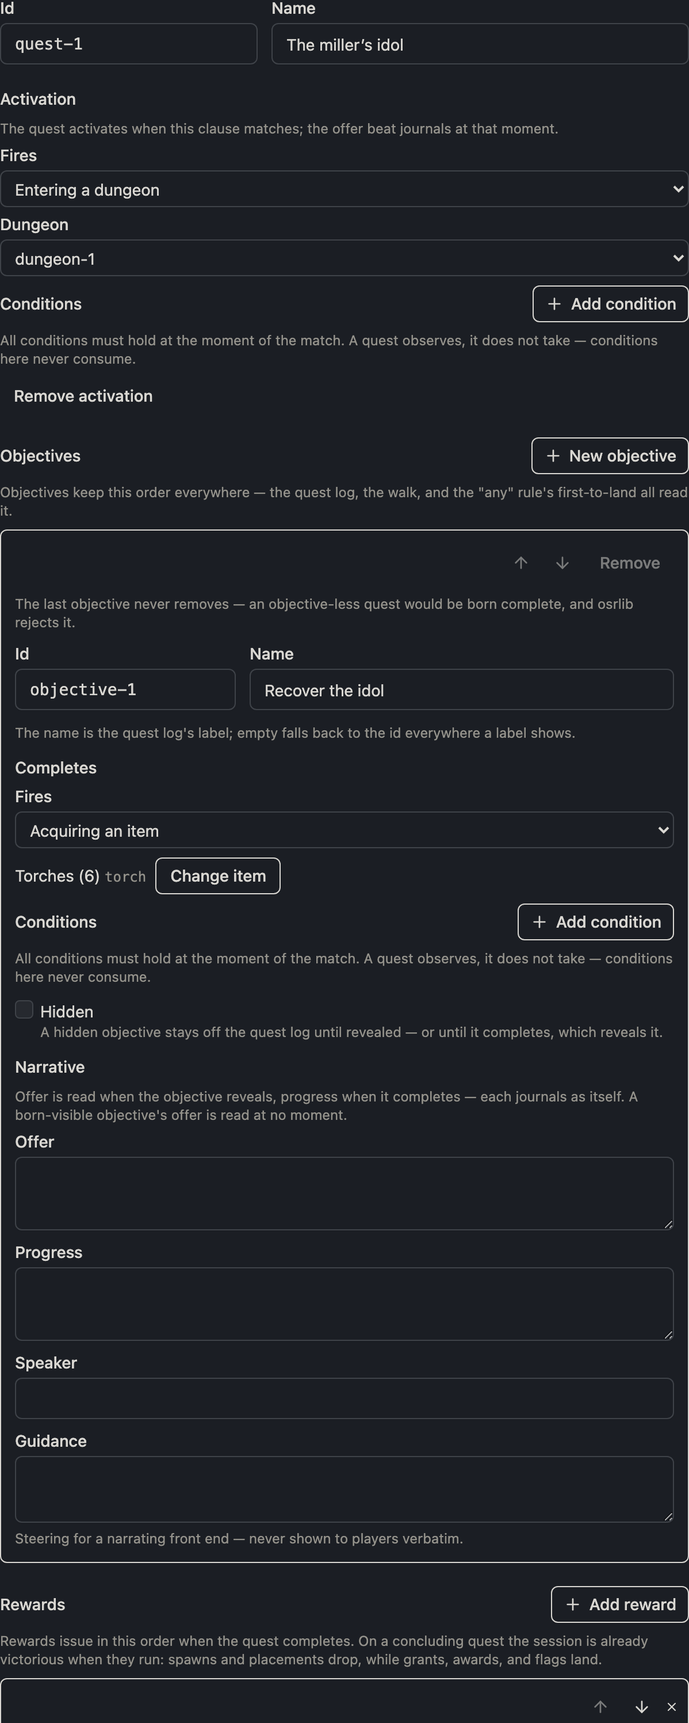
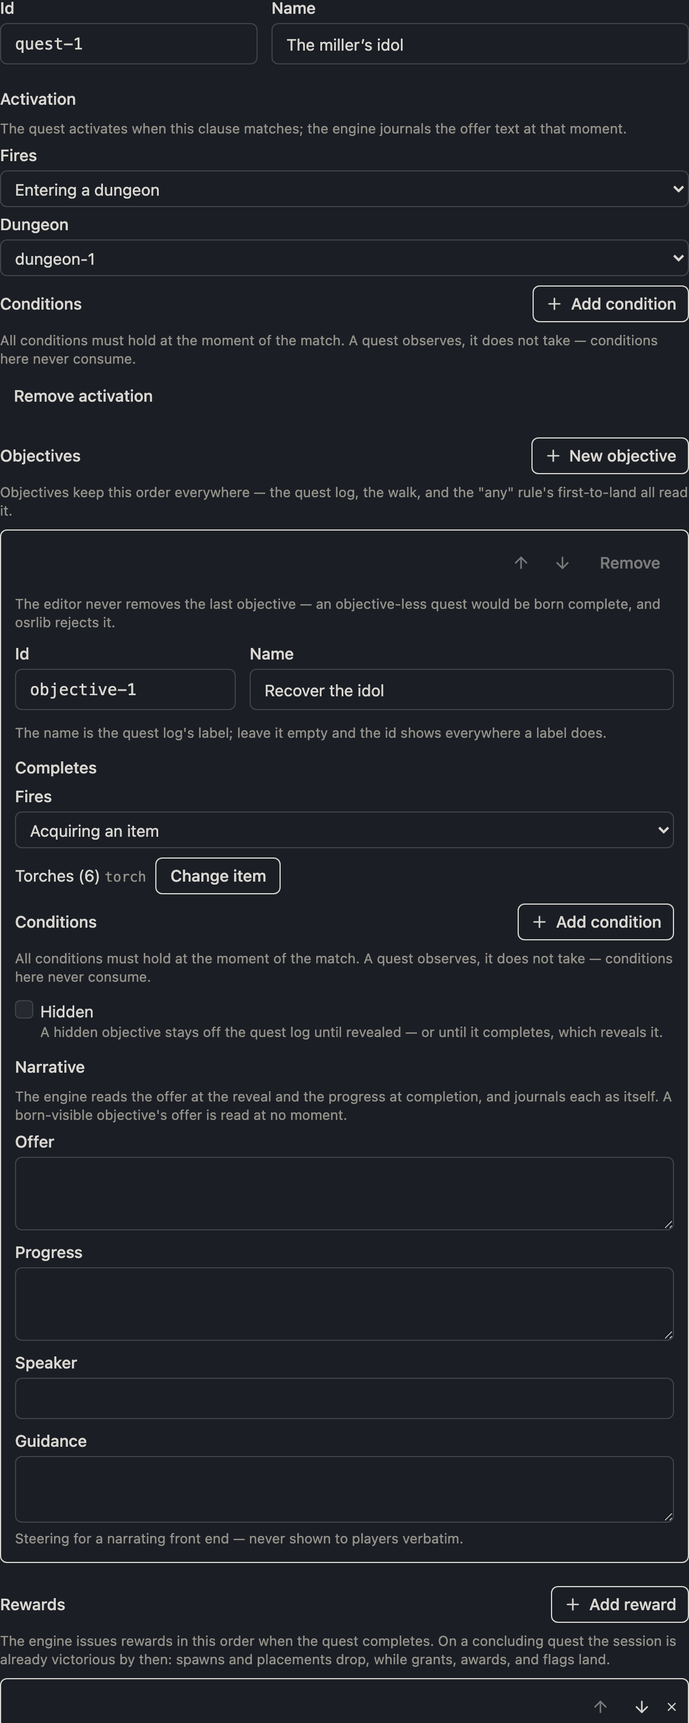
apply the no-false-agency register to the phase 17 surfaces
The PR #65 register pass, applied to this phase's UI copy and docs: beats
no longer journal themselves or ride their lifecycle events (the engine
journals each beat as itself, on its own event), blocks and sections hold
rather than carry, the engine issues rewards and executes consequences
rather than the commands issuing themselves, a gate names its item rather
than requiring it, a quest must have a name rather than needing one, the
editor — not the objective — refuses to remove the last one, saves hold
their orphaned state rather than tracking or marking it, and the guide's
'authored order decides' hands the deciding back to the rule's own
first-in-order fact. Same fixes in the triggers guide's phase 16
stragglers (the engine holds the fired line, speaker and guidance no
longer ride along, the section holds two lists), README's OGL line
(includes, the PR #65 licensing fix mirrored), and the CHANGELOG bullets.
The reworded help text shows in three committed shots, so quest-detail,
quests-triggers, and trigger-detail re-captured.

Claude-Session: https://claude.ai/code/session_0166KkiY7Sv9PWZSoJHwKHsB

diff --git a/frontend/src/components/quests-section.tsx b/frontend/src/components/quests-section.tsx
@@ -196,8 +196,8 @@ export function QuestsSection({
             </Button>
           </div>
           <p className="text-muted-foreground text-xs">
-            Quests seed and advance in this order — the interpreter walks them after the triggers,
-            and the player's quest log lists them as authored.
+            The interpreter seeds and walks quests in this order, after the triggers, and the
+            player's quest log lists them as authored.
           </p>
         </div>
         {quests.length === 0 ? (
@@ -293,7 +293,7 @@ function ForgeQuestsBody() {
     <section aria-label="Quests" className="flex max-w-xl flex-col gap-3">
       <h2 className="font-serif text-xl font-semibold">Quests</h2>
       <p className="text-sm">
-        A forge-assembled adventure carries no triggers or quests: the overrides vocabulary has no
+        A forge-assembled adventure holds no triggers or quests: the overrides vocabulary has no
         authored-layer surface, so there is nothing here to review and nothing the editor could
         write back to <span className="font-mono">overrides.yaml</span>. The gap is osr-forge's
         recorded decision (
@@ -411,7 +411,7 @@ function TriggerRow({
       {confirming && (
         <p className="text-muted-foreground px-2 pb-2 text-xs">
           Nothing in the document references a trigger, so removal dangles nothing. A save that
-          already marked it fired keeps the orphaned mark.
+          already holds its fired mark keeps it, orphaned.
         </p>
       )}
     </li>
@@ -508,7 +508,7 @@ function QuestRow({
       {confirming && (
         <p className="text-muted-foreground px-2 pb-2 text-xs">
           Nothing in the document references a quest, so removal dangles nothing. A save that
-          already tracks it keeps the orphaned lifecycle state.
+          already holds its lifecycle state keeps it, orphaned.
         </p>
       )}
     </li>
@@ -680,9 +680,9 @@ function CreateQuestBody({
       <DialogHeader>
         <DialogTitle>New quest</DialogTitle>
         <DialogDescription>
-          A quest needs a name and one objective to exist; the objective completes on the pattern
-          you pick here. Everything else — activation, more objectives, rewards — is detail-editor
-          work.
+          A quest must have a name and one objective to exist; the objective completes on the
+          pattern you pick here. Everything else — activation, more objectives, rewards — is
+          detail-editor work.
         </DialogDescription>
       </DialogHeader>
       <div className="flex flex-col gap-3">
@@ -828,7 +828,7 @@ function TriggerDetail({
         idPrefix="trigger-consequence"
         noun="consequence"
         title="Consequences"
-        help="Consequences execute in this order when the trigger fires. Empty is a normal shape — a trigger whose whole job is its journal beat."
+        help="The engine executes consequences in this order when the trigger fires. Empty is a normal shape — a trigger whose whole job is its journal beat."
         onUpdate={(build) =>
           update((committed) => {
             const consequences = build(committed.consequences)
@@ -937,7 +937,7 @@ function QuestDetail({
         idPrefix="quest-reward"
         noun="reward"
         title="Rewards"
-        help="Rewards issue in this order when the quest completes. On a concluding quest the session is already victorious when they run: spawns and placements drop, while grants, awards, and flags land."
+        help="The engine issues rewards in this order when the quest completes. On a concluding quest the session is already victorious by then: spawns and placements drop, while grants, awards, and flags land."
         onUpdate={(build) =>
           update((committed) => {
             const rewards = build(committed.rewards)
@@ -967,8 +967,8 @@ function QuestDetail({
           </select>
         </div>
         <p className="text-muted-foreground text-xs">
-          Under "any", the quest completes on the first authored objective whose clause lands in the
-          walk — authored order decides which.
+          Under "any", the first authored objective whose clause lands in the walk completes the
+          quest.
         </p>
       </div>
 
@@ -987,9 +987,9 @@ function QuestDetail({
         <span>
           Concludes the adventure
           <span className="text-muted-foreground block text-xs">
-            Completing this quest ends the adventure in victory, and the completion beat journals
-            with it. Author one concluding quest — osrlib caps nothing, and a second one completing
-            merely journals.
+            Completing this quest ends the adventure in victory, and the engine journals the
+            completion text with it. Author one concluding quest — osrlib caps nothing, and a second
+            one completing merely adds a journal line.
           </span>
         </span>
       </label>
@@ -997,8 +997,8 @@ function QuestDetail({
       <div className="flex flex-col gap-2">
         <h3 className="text-sm font-medium">Narrative</h3>
         <p className="text-muted-foreground text-xs">
-          Offer journals at activation, completion at quest completion — each beat journals as
-          itself, riding its lifecycle event, so no separate journal voice exists.
+          The engine journals the offer at activation and the completion at quest completion — each
+          beat as itself, on its own lifecycle event — so no separate journal voice exists.
         </p>
         <NarrativeBlockEditor
           block={quest.narrative ?? null}
@@ -1042,12 +1042,14 @@ function ActivationCard({
       {activation === null && !drafting ? (
         <p className="text-muted-foreground text-xs">
           Standing charge — the quest is active from the session's first moment. With no activation
-          moment the offer beat never journals, but the quest still shows in the player's quest log.
+          moment the engine never journals the offer text, but the quest still shows in the player's
+          quest log.
         </p>
       ) : (
         <>
           <p className="text-muted-foreground text-xs">
-            The quest activates when this clause matches; the offer beat journals at that moment.
+            The quest activates when this clause matches; the engine journals the offer text at that
+            moment.
           </p>
           <ClauseBuilder
             clause={activation}
@@ -1319,8 +1321,8 @@ function ObjectiveCard({
       </div>
       {count <= 1 && (
         <p className="text-muted-foreground text-xs">
-          The last objective never removes — an objective-less quest would be born complete, and
-          osrlib rejects it.
+          The editor never removes the last objective — an objective-less quest would be born
+          complete, and osrlib rejects it.
         </p>
       )}
       <div className="flex items-end gap-3">
@@ -1335,7 +1337,7 @@ function ObjectiveCard({
       </div>
       {idError && <p className="text-destructive text-xs">{idError}</p>}
       <p className="text-muted-foreground text-xs">
-        The name is the quest log's label; empty falls back to the id everywhere a label shows.
+        The name is the quest log's label; leave it empty and the id shows everywhere a label does.
       </p>
       <div className="flex flex-col gap-2">
         <h4 className="text-sm font-medium">Completes</h4>
@@ -1387,8 +1389,8 @@ function ObjectiveCard({
           </div>
           {objective.reveal_when == null && !revealDrafting ? (
             <p className="text-muted-foreground text-xs">
-              No reveal clause — the normal shape: the objective surfaces by completing. The offer
-              beat is read only at reveal.
+              No reveal clause — the normal shape: the objective surfaces by completing. The engine
+              reads the offer beat only at the reveal.
             </p>
           ) : (
             <>
@@ -1424,8 +1426,8 @@ function ObjectiveCard({
       <div className="flex flex-col gap-2">
         <h4 className="text-sm font-medium">Narrative</h4>
         <p className="text-muted-foreground text-xs">
-          Offer is read when the objective reveals, progress when it completes — each journals as
-          itself. A born-visible objective's offer is read at no moment.
+          The engine reads the offer at the reveal and the progress at completion, and journals each
+          as itself. A born-visible objective's offer is read at no moment.
         </p>
         <NarrativeBlockEditor
           block={objective.narrative ?? null}

diff --git a/frontend/src/components/quests-section.test.tsx b/frontend/src/components/quests-section.test.tsx
@@ -301,7 +301,7 @@ test('the quest list renders document order — numbered, never sorted, with the
   expect(rows[1]).toHaveTextContent('standing charge')
   expect(rows[1]).toHaveTextContent('1 objective · 1 reward')
   expect(
-    screen.getByText('Quests seed and advance in this order', { exact: false }),
+    screen.getByText('The interpreter seeds and walks quests in this order', { exact: false }),
   ).toBeInTheDocument()
 })
 
@@ -372,7 +372,7 @@ test('quest remove is a two-step confirm posting remove_quest', async () => {
   const row = screen.getByTestId('quest-row-qa')
   fireEvent.click(within(row).getByRole('button', { name: 'Remove' }))
   expect(row).toHaveTextContent('removal dangles nothing')
-  expect(row).toHaveTextContent('orphaned lifecycle state')
+  expect(row).toHaveTextContent('holds its lifecycle state keeps it, orphaned')
   fireEvent.click(within(row).getByRole('button', { name: 'Confirm remove' }))
   await waitFor(() => expect(postOps).toHaveBeenCalledTimes(1))
   const [, , ops] = postOps.mock.calls[0]
@@ -392,7 +392,7 @@ test('the standing charge states itself and Add activation opens a clause builde
   renderSection(projectWithQuests([quest('qa')]))
   const activation = screen.getByLabelText('Activation')
   expect(activation).toHaveTextContent('Standing charge')
-  expect(activation).toHaveTextContent('the offer beat never journals')
+  expect(activation).toHaveTextContent('the engine never journals the offer text')
   fireEvent.click(within(activation).getByRole('button', { name: 'Add activation' }))
   fireEvent.change(within(activation).getByLabelText('Fires'), {
     target: { value: 'town_entered' },
@@ -463,7 +463,7 @@ test('a hidden objective without a reveal clause names the surfaces-by-completin
   expect(within(reveal).getByRole('button', { name: 'Add reveal clause' })).toBeInTheDocument()
 })
 
-test('the last objective never removes, with the reason named', () => {
+test('the editor never removes the last objective, with the reason named', () => {
   renderSection(projectWithQuests([quest('qa')]))
   expect(screen.getByRole('button', { name: 'Remove objective o-1' })).toBeDisabled()
   expect(screen.getByText(/objective-less quest would be born complete/)).toBeInTheDocument()

diff --git a/frontend/src/components/narrative-block-editor.tsx b/frontend/src/components/narrative-block-editor.tsx
@@ -73,8 +73,8 @@ export function NarrativeBlockEditor({
       {unreadBeats.map((beat) => (
         <div key={beat} className="flex flex-col items-start gap-1.5" aria-label="Unread beat">
           <p className="text-xs text-amber-700 dark:text-amber-400">
-            This block carries <span className="font-mono">{beat}</span> text, which this carrier
-            never reads: <span className="font-serif">“{current[beat]}”</span>
+            This block holds <span className="font-mono">{beat}</span> text, which the engine never
+            reads for this carrier: <span className="font-serif">“{current[beat]}”</span>
           </p>
           <Button variant="outline" size="sm" onClick={() => commitField(beat, '')}>
             Clear the {BEAT_LABELS[beat].toLowerCase()} text

diff --git a/tests/e2e/triggers.spec.ts b/tests/e2e/triggers.spec.ts
@@ -215,7 +215,7 @@ test('the forge posture: the Quests explanation body, and a map add-trigger bloc
   // — no list, since a forge-assembled document can never carry triggers; the
   // gap is forge's recorded decision, with detach in place.
   await page.getByRole('button', { name: 'Quests', exact: true }).click()
-  await expect(page.getByText(/carries no triggers or quests/)).toBeVisible()
+  await expect(page.getByText(/holds no triggers or quests/)).toBeVisible()
   await expect(page.getByRole('link', { name: 'osr-forge#39' })).toBeVisible()
   await expect(page.getByRole('button', { name: 'Detach to a native project…' })).toBeVisible()
   await expect(page.getByRole('button', { name: 'New trigger' })).toHaveCount(0)

diff --git a/docs/guides/quests.md b/docs/guides/quests.md
@@ -1,65 +1,65 @@
 # Quests
 
-A quest gives your module a goal the engine can track: recover the idol, and the adventure is won. The quest list lives in the **Quests** section below the [triggers](triggers.md), and the two share a vocabulary on purpose — every clause a quest carries is built from the same patterns and conditions a trigger uses, and every reward is one of the same nine referee commands.
+A quest is the goal the engine tracks for your module: recover the idol, and the adventure is won. The quest list lives in the **Quests** section below the [triggers](triggers.md), and the two share a vocabulary on purpose — every clause in a quest is built from the same patterns and conditions a trigger uses, and every reward is one of the same nine referee commands.
 
-A quest has a required **name** (the words the player's quest log shows), an optional **activation** clause, one or more **objectives**, optional **rewards**, a completion rule of **all** or **any**, and the one field that can end the adventure: **concludes the adventure**.
+A quest has a required **name** (the words the player's quest log shows), an optional **activation** clause, one or more **objectives**, optional **rewards**, a completion rule of **all** or **any**, and the one field behind victory: **concludes the adventure**.
 
 ![The quest detail editor: the name, the activation clause, and the first objective with its completion clause, hidden toggle, and beats](../assets/screenshots/quest-detail-light.png#only-light)
 ![The quest detail editor: the name, the activation clause, and the first objective with its completion clause, hidden toggle, and beats](../assets/screenshots/quest-detail-dark.png#only-dark)
 
 ## Creating a quest
 
-**New quest** collects exactly what a quest needs to exist: an id, the name, and the first objective's completion pattern. A quest without a name or without an objective is not a valid document shape — under the *all* rule an objective-less quest would be born complete — so the dialog won't create one. Everything else is detail-editor work; the first objective is minted `objective-1` and renames there.
+**New quest** collects exactly what a quest must have to exist: an id, the name, and the first objective's completion pattern. A quest without a name or without an objective is not a valid document shape — under the *all* rule an objective-less quest would be born complete — so the dialog won't create one. Everything else is detail-editor work; the first objective is minted `objective-1`, and you rename it there.
 
 ## Activation, or the standing charge
 
-A quest with no activation clause is a **standing charge**: active from the session's first moment, on the party's list before they take a step. Two honest consequences follow from there being no activation moment: the quest's offer text never journals (there is nothing to journal it at), though the quest still shows in the player's quest log from the start.
+A quest with no activation clause is a **standing charge**: active from the session's first moment, on the party's list before they take a step. Two honest consequences follow from there being no activation moment: the engine never journals the quest's offer text (there is no moment to journal it at), though the quest still shows in the player's quest log from the start.
 
-**Add activation** turns activation into an event the party crosses — entering the dungeon, taking a specific item, any of the seven patterns — optionally narrowed by conditions. When an activation clause matches, the quest activates and its offer text journals at that moment. Removing the clause returns the quest to a standing charge.
+**Add activation** turns activation into an event the party crosses — entering the dungeon, taking a specific item, any of the seven patterns — optionally narrowed by conditions. When an activation clause matches, the quest activates and the engine journals its offer text at that moment. Removing the clause returns the quest to a standing charge.
 
 ## Objectives
 
-Each objective is a thing the party can accomplish, with a completion clause built from the same pattern-plus-conditions shape. Order matters everywhere it shows: objectives keep their authored order in the quest log, in the engine's walk, and — under the *any* rule — in deciding which objective's landing completes the quest.
+Each objective is a thing the party can accomplish, with a completion clause built from the same pattern-plus-conditions shape. Order matters everywhere it shows: objectives keep their authored order in the quest log, in the engine's walk, and — under the *any* rule — in which objective's landing completes the quest.
 
-- The **name** is the quest log's label. It is optional; an unnamed objective falls back to its id everywhere a label shows.
+- The **name** is the quest log's label. It is optional; an unnamed objective shows as its id everywhere a label shows.
 - Objective **ids** are unique within their quest (two different quests may reuse an id), and the editor refuses a duplicate as you type it.
-- A quest keeps at least one objective — the last one never removes.
+- A quest keeps at least one objective — the editor never removes the last one.
 
 ### Hidden objectives and reveals
 
 A **hidden** objective stays off the player's list until it is revealed. There are two ways out of hiding:
 
-- A **reveal clause** — the same clause shape again — surfaces the objective when it matches, and the objective's *offer* text journals at that moment.
+- When a **reveal clause** — the same clause shape again — matches, the engine surfaces the objective and journals its *offer* text at that moment.
 - Completing a hidden objective reveals it. A hidden objective with no reveal clause is a perfectly normal shape: it surfaces by being done.
 
 A reveal clause only makes sense on a hidden objective, so unticking **Hidden** clears the reveal clause in the same gesture.
 
-Because a reveal is the only moment that reads an objective's offer text, a born-visible objective's offer is read at no moment — author the *progress* beat for objectives that start on the list.
+Because the engine reads an objective's offer text only at its reveal, a born-visible objective's offer is read at no moment — author the *progress* beat for objectives that start on the list.
 
 ## Rewards
 
-Rewards are the same nine commands a trigger's consequences use, under the same rules: recipients are the whole party or the first living character (never a typed character id), and they issue in authored order when the quest completes.
+Rewards are the same nine commands a trigger's consequences use, under the same rules: recipients are the whole party or the first living character (never a typed character id), and the engine issues them in authored order when the quest completes.
 
-One ordering fact is worth knowing for a concluding quest: the victory transition happens *before* the rewards issue. Grants, awards, and flag writes still land — the epilogue paying out — but spawns and placements are dropped, because the session is already over and there is nothing left to fight or walk.
+One ordering fact is worth knowing for a concluding quest: the victory transition happens *before* the engine issues the rewards. Grants, awards, and flag writes still land — the epilogue paying out — but spawns and placements are dropped, because the session is already over and there is nothing left to fight or walk.
 
 ## All, any, and concluding the adventure
 
-**Completion** is *all* (every objective) or *any* (the first to land — authored order decides which when one moment completes several).
+**Completion** is *all* (every objective) or *any* (the first to land — when one moment would complete several, the first in authored order counts).
 
-**Concludes the adventure** marks the quest whose completion ends the adventure in victory: the engine switches to the victory state, and the quest's *completion* text journals with it. Author one concluding quest per module — the engine caps nothing, but once the first one completes the session is over, and a second concluding quest can only ever add a journal line.
+**Concludes the adventure** marks the quest whose completion ends the adventure in victory: the engine switches to the victory state and journals the quest's *completion* text with it. Author one concluding quest per module — the engine caps nothing, but once the first one completes the session is over, and a second concluding quest can only ever add a journal line.
 
-## The two beats, journaling as themselves
+## The two beats, journaled as themselves
 
-A quest's narrative block carries **offer** (shown and journaled at activation) and **completion** (shown and journaled at quest completion). An objective's block carries **offer** (at reveal) and **progress** (at its completion). Each beat rides its own lifecycle event and is written to the journal as itself — there is no separate journal voice to author, which is why the editor offers none. A foreign document's block carrying text in a beat the quest layer never reads (a `journal` or `fired` line) is flagged by name with a one-click clear.
+A quest's narrative block holds **offer** (shown and journaled at activation) and **completion** (shown and journaled at quest completion). An objective's block holds **offer** (at reveal) and **progress** (at its completion). The engine shows and journals each beat on its own lifecycle event, as itself — there is no separate journal voice to author, which is why the editor offers none. When a foreign document's block holds text in a beat the engine never reads for a quest (a `journal` or `fired` line), the editor flags it by name with a one-click clear.
 
-Speaker and guidance ride along as on every narrative block.
+Speaker and guidance are on every narrative block, as always.
 
 ## The advisory lints
 
 Two advisory checks watch the quest layer, joining the [three on the trigger layer](triggers.md#the-advisory-lints). Warnings by construction — they never block publishing:
 
-- **Unpriced treasure rewards** (`quest_reward_unpriced`) — the quest pays treasure the XP machinery will never price, with no XP award beside it. Granted items always count zero toward XP under the engine's valuation rule; granted coins on a *concluding* quest land after victory, where the return-to-town award never runs. Either way the players get the loot but never the experience — add an **Award XP** reward if the payment is meant to count. (Granted coins on a non-concluding quest price themselves at the next return to town and are not flagged.)
-- **A key nothing places** (`key_not_placed`) — a door or stair gate requires a bundled item that no treasure cache holds and no trigger or non-concluding quest reward grants. The party can buy shipped items in town, but a bundled item exists only where you put it — and a concluding quest's grant doesn't count, because it lands after the adventure is already over. The finding sits on the gate that can't be satisfied.
+- **Unpriced treasure rewards** (`quest_reward_unpriced`) — the quest's rewards grant treasure the XP machinery will never price, with no XP award beside them. Granted items always count zero toward XP under the engine's valuation rule; granted coins on a *concluding* quest land after victory, where the return-to-town award never runs. Either way the players get the loot but never the experience — add an **Award XP** reward if the payment is meant to count. (The game prices granted coins on a non-concluding quest at the next return to town, so those are not flagged.)
+- **A key nothing places** (`key_not_placed`) — a door or stair gate names a bundled item that no treasure cache holds and no trigger or non-concluding quest reward grants. The party can buy shipped items in town, but a bundled item exists only where you put it — and a concluding quest's grant doesn't count, because it lands after the adventure is already over. The finding sits on the gate that can't be satisfied.
 
 ## What lives in saves
 
@@ -67,4 +67,4 @@ A quest's lifecycle state — activated, revealed, completed — lives in the pl
 
 ## In converted projects
 
-The [forge-backed](forge-backed-review.md) posture is the same as for triggers: no forge-assembled document can carry quests, the gap is [osr-forge#39](https://github.com/mmacy/osr-forge/issues/39), and the Quests section offers **Detach to a native project** in place.
+The [forge-backed](forge-backed-review.md) posture is the same as for triggers: no forge-assembled document can hold quests, the gap is [osr-forge#39](https://github.com/mmacy/osr-forge/issues/39), and the Quests section offers **Detach to a native project** in place.

diff --git a/CHANGELOG.md b/CHANGELOG.md
@@ -9,9 +9,9 @@ and this project adheres to [Semantic Versioning](https://semver.org/spec/v2.0.0
 
 ### Added
 
-- Quests — the goal the adventure can end on, completing the **Quests** section beside the triggers. A quest is a required name over one or more objectives: activation is an authored clause (the same pattern-plus-conditions shape a trigger fires on, consume-free by the same engine rule) or absent — a *standing charge*, active from the session's first moment, stated honestly in the editor with the one wrinkle that follows (no activation moment means the offer beat never journals, though the quest still shows in the player's log). Objectives carry optional display names falling back to their ids, completion clauses, and a hidden/reveal pair — the reveal clause renders only on a hidden objective, unticking hidden clears it in the same gesture, and a hidden objective with no reveal clause is the normal surfaces-by-completing shape — with order preserved everywhere it is semantics: the quest log, the engine's walk, and the *any* completion rule's first-to-land. Rewards ride the same closed nine-command vocabulary as trigger consequences with the same two-value recipients, issuing in authored order, and **concludes the adventure** marks the quest whose completion ends the module in victory — with the victory-ordering fact stated where it matters (rewards issue after the transition: grants, awards, and flags land; spawns and placements drop). The quest and objective beats journal as themselves riding their lifecycle events — offer/completion on the quest, offer/progress on the objective — so no journal voice exists to author, and a foreign block's unread beat warns by name with a one-click clear. The four new ops (`AddQuest`, `SetQuest`, `MoveQuest`, `RemoveQuest`) mirror the trigger quartet — whole-value grain carrying objective and reward order, first-match among foreign duplicates, the sidecar note remapped on rename — and block whole in forge-backed projects with the detach offer. Quest validation findings classify to navigable `quest:<id>` addresses across all thirteen quest-owned shapes under two-level enumeration confirmation, the flag lint's quest readers gain the same addresses, and two advisory lints complete the battery: `quest_reward_unpriced` (treasure the award machinery never prices — granted items value at zero, and granted coins on a concluding quest land after victory where no return award runs — with no `AwardXP` beside it) and `key_not_placed` (a door or stair gate on a bundled item no cache holds and no trigger consequence or non-concluding quest reward grants — a concluding quest's grant deliberately doesn't count, because it lands after the session is over).
+- Quests — the goal the adventure can end on, completing the **Quests** section beside the triggers. A quest is a required name over one or more objectives: activation is an authored clause (the same pattern-plus-conditions shape a trigger fires on, consume-free by the same engine rule) or absent — a *standing charge*, active from the session's first moment, stated honestly in the editor with the one wrinkle that follows (with no activation moment the engine never journals the offer beat, though the quest still shows in the player's log). Objectives have optional display names shown as their ids when empty, completion clauses, and a hidden/reveal pair — the editor offers the reveal clause only on a hidden objective, unticking hidden clears it in the same gesture, and a hidden objective with no reveal clause is the normal surfaces-by-completing shape — with order preserved everywhere it is semantics: the quest log, the engine's walk, and the *any* completion rule's first-to-land. Rewards use the same closed nine-command vocabulary as trigger consequences with the same two-value recipients, and the engine issues them in authored order; **concludes the adventure** marks the quest whose completion ends the module in victory — with the victory-ordering fact stated where it matters (the engine issues rewards after the transition: grants, awards, and flags land; spawns and placements drop). The engine journals the quest and objective beats as themselves on their own lifecycle events — offer/completion on the quest, offer/progress on the objective — so no journal voice exists to author, and the editor warns by name about a foreign block's unread beat, with a one-click clear. The four new ops (`AddQuest`, `SetQuest`, `MoveQuest`, `RemoveQuest`) mirror the trigger quartet — a whole-value grain that keeps objective and reward order, first-match among foreign duplicates, the sidecar note remapped on rename — and block whole in forge-backed projects with the detach offer. Quest validation findings classify to navigable `quest:<id>` addresses across all thirteen quest-owned shapes under two-level enumeration confirmation, the flag lint's quest readers gain the same addresses, and two advisory lints complete the battery: `quest_reward_unpriced` (treasure the award machinery never prices — granted items are valued at zero, and granted coins on a concluding quest land after victory where no return award runs — with no `AwardXP` beside it) and `key_not_placed` (a door or stair gate on a bundled item no cache holds and no trigger consequence or non-concluding quest reward grants — a concluding quest's grant deliberately doesn't count, because it lands after the session is over).
 
-- Triggers — the module's wiring, and the **Quests** section that carries it (the quest builder joins it in the bullet above). A trigger binds one of seven observable patterns — entering an area, a level, a dungeon, or town; acquiring an item; defeating a monster; a flag being written, with an any-value default and a strictly-typed exact-value option — through optional conditions (the shared condition builder, with the consume control deliberately absent: a trigger fires, it does not take, and the engine rejects a consuming trigger condition at parse) to consequences drawn from the engine's closed nine-command vocabulary: grant an item (equipment only, matching what the engine accepts), grant coins, award XP, set a flag, spawn monsters or an NPC party, set a door's state through a picker that offers only actual doors, place the party, and advance time. The three character-addressed commands take a two-value recipient — whole party or first living character — never a typed id, because a document can never know a session's character ids. The list renders document order as the semantics it is: triggers fire top to bottom, each firing visible to the conditions below it, with move buttons riding the new `MoveTrigger` op; consequences keep their authored order through every edit. Each firing speaks in two voices — **fired**, the referee's line, and **journal**, the players' — and once-only is the default, with the fired state living in saves rather than the document. Area and level triggers place straight from the map: **Add trigger** on the area context menu mints one bound to that area (a lightning-bolt glyph joins the key number's row), and the level properties dialog lists and adds entering-a-level triggers, with a bolt marker on the level tab. Trigger validation findings now classify to navigable `trigger:<id>` addresses across all thirteen shapes, and three advisory lints — warnings by construction, never gating publish — watch the layer: a flag read that nothing writes, triggers whose flag writes fire each other in a loop, and an area-entry spawn aimed at an area whose keyed encounter would open first and drop it. In a forge-backed project the four trigger ops block whole with the detach offer, and the Quests entry explains the overrides-vocabulary gap ([osr-forge#39](https://github.com/mmacy/osr-forge/issues/39)) with detach in place.
+- Triggers — the module's wiring, and the **Quests** section that holds it (the quest builder joins it in the bullet above). A trigger binds one of seven observable patterns — entering an area, a level, a dungeon, or town; acquiring an item; defeating a monster; a flag being written, with an any-value default and a strictly-typed exact-value option — through optional conditions (the shared condition builder, with the consume control deliberately absent: a trigger fires, it does not take, and the engine rejects a consuming trigger condition at parse) to consequences drawn from the engine's closed nine-command vocabulary: grant an item (equipment only, matching what the engine accepts), grant coins, award XP, set a flag, spawn monsters or an NPC party, set a door's state through a picker that offers only actual doors, place the party, and advance time. The three character-addressed commands take a two-value recipient — whole party or first living character — never a typed id, because a document can never know a session's character ids. The list renders document order as the semantics it is: triggers fire top to bottom, each firing visible to the conditions below it, with move buttons riding the new `MoveTrigger` op; consequences keep their authored order through every edit. Each firing speaks in two voices — **fired**, the referee's line, and **journal**, the players' — and once-only is the default, with the fired state living in saves rather than the document. Area and level triggers place straight from the map: **Add trigger** on the area context menu mints one bound to that area (a lightning-bolt glyph joins the key number's row), and the level properties dialog lists and adds entering-a-level triggers, with a bolt marker on the level tab. Trigger validation findings now classify to navigable `trigger:<id>` addresses across all thirteen shapes, and three advisory lints — warnings by construction, never gating publish — watch the layer: a flag read that nothing writes, triggers whose flag writes fire each other in a loop, and an area-entry spawn aimed at an area whose keyed encounter would open first and drop it. In a forge-backed project the four trigger ops block whole with the detach offer, and the Quests entry explains the overrides-vocabulary gap ([osr-forge#39](https://github.com/mmacy/osr-forge/issues/39)) with detach in place.
 
 - Bundled items and gates — the authored layer's opening. A new **Items** section beside Monsters stocks bespoke equipment templates across all four kinds (weapon, armour, gear, ammunition): create from per-kind model-valid seeds or clone any catalog item, with an id collision against shipped equipment, shipped magic, *or* the bundle refused at commit with an inline rename prompt — an item id names one thing per session, so the domain is the full width the engine resolves against. Renames cascade in one undo step over every reference: cache item lists, gate conditions, and the authored-layer sites a document can carry. The treasure-cache item picker now serves the *effective* catalog — the bundle first, under "This adventure" — which is what makes "cache the key in room 1" possible, and cache rows resolve ids to names over the same domain. Doors and level-placed transitions take **gates**: one condition (carries an item — with a consuming toll option, taken from the first carrier in marching order per success; a flag compared strictly through a typed value control; or an active effect) plus authored refusal and success text with speaker attribution and narrator guidance, composing with the door's own locked and stuck rather than replacing them. Gated doors and transitions badge on the map with a pencil-palette diamond, auto-reciprocal stairs are born ungated, reachability lint stays deliberately gate-blind, and a trap's slide offers no gate because the engine rejects one at parse. Level properties gains a **guidance** field — per-level narrator steering, inert to the engine. In a forge-backed project every authored-layer edit blocks with the detach offer (the overrides vocabulary has no authored-layer surface, forge's recorded decision at [osr-forge#39](https://github.com/mmacy/osr-forge/issues/39)), and the Items entry navigates to that explanation with detach in place. Rides the osrlib floor raised to `>=1.6,<2` — schema 3, every document re-stamped once — with every re-keying op (dungeon renames, level renumbers, area re-keys, monster and item renames) now cascading over the trigger and quest reference sites a 1.6 document can carry.
 

diff --git a/README.md b/README.md
@@ -28,7 +28,7 @@ The editor serves on `http://127.0.0.1:8630` and opens your browser to the home 
 - **[The monster editor](https://mmacy.github.io/osr-editor/guides/monster-editor/)** — full stat-block authoring over the adventure's bundled templates: create from scratch or clone any catalog monster, with renames cascading through every reference.
 - **[The item editor and gates](https://mmacy.github.io/osr-editor/guides/item-editor/)** — create items of your own beside the standard catalog (the brass key the module is about), cache them for the party to find, and gate doors and stairways on carrying them — with your own refusal and success text, tolls that consume the item, and per-level narrator guidance.
 - **[Triggers](https://mmacy.github.io/osr-editor/guides/triggers/)** — the module's wiring: seven observable patterns, nine referee-command consequences, and two narrative voices per firing, authored in the Quests panel or placed straight from the map — the lever that raises the portcullis, with advisory lints watching for flags nobody writes, trigger cycles, and spawns that collide with keyed encounters.
-- **[Quests](https://mmacy.github.io/osr-editor/guides/quests/)** — the goal the adventure can end on: activation clauses or standing charges, objectives with hidden/reveal and all-or-any completion, rewards over the same nine commands, and the concluding quest that ends the module in victory — with advisory lints watching for treasure the XP machinery never prices and keys nothing places.
+- **[Quests](https://mmacy.github.io/osr-editor/guides/quests/)** — the goal the adventure can end on: activation clauses or standing charges, objectives with hidden/reveal and all-or-any completion, rewards over the same nine commands, and the concluding quest whose completion ends the module in victory — with advisory lints watching for treasure the XP machinery never prices and keys nothing places.
 - **[Forge-backed review](https://mmacy.github.io/osr-editor/guides/forge-backed-review/)** — open an osr-forge workdir and correct it graphically: the report as a work list beside the source pages, every edit a reasoned `overrides.yaml` entry on forge's own pure assemble loop.
 - **[Converting a PDF](https://mmacy.github.io/osr-editor/guides/converting-a-pdf/)** — the front door to forge's pipeline: price the run first, convert with live progress and cooperative cancel, land in the review queue. No credential is ever written to disk.
 - **[Authoring aids](https://mmacy.github.io/osr-editor/guides/authoring-aids/)** — SRD stocking with seeded, reproducible re-rolls; treasure and encounter previews; and the prose assistant, present only when a provider is configured.
@@ -113,4 +113,4 @@ Releases are tag-driven; the runbook lives in [`AGENTS.md`](https://github.com/m
 
 ## License
 
-MIT. osr-editor ships no game content — osrlib carries the OGL data. Modules you author or convert are yours and stay in your project directories.
+MIT. osr-editor ships no game content — osrlib includes the OGL data. Modules you author or convert are yours and stay in your project directories.

diff --git a/docs/guides/triggers.md b/docs/guides/triggers.md
@@ -1,6 +1,6 @@
 # Triggers
 
-The **Quests** section, beside Items in the section list, is where your module's wiring lives: the lever that raises a portcullis, the boss whose defeat unlocks the shrine, the homecoming beat that fires when the party walks back into town. The section carries two lists — the triggers this page covers, and the [quests](quests.md) built from the same clause vocabulary.
+The **Quests** section, beside Items in the section list, is where your module's wiring lives: the lever that raises a portcullis, the boss whose defeat unlocks the shrine, the homecoming beat that fires when the party walks back into town. The section holds two lists — the triggers this page covers, and the [quests](quests.md) built from the same clause vocabulary.
 
 A trigger is an authored binding with three parts: a **pattern** naming the moment it fires on, optional **conditions** that must all hold at that moment, and **consequences** — the referee commands the engine issues when it fires. A trigger with no consequences is a perfectly normal shape: its whole job can be its journal line.
 
@@ -51,10 +51,10 @@ The three commands that give something to a character — grant an item, grant c
 
 A trigger's narrative block holds two beats, for two audiences:
 
-- **Fired** is the referee's line about the wiring — the engine carries it at referee visibility, table talk about what the machinery did. Players don't see it.
+- **Fired** is the referee's line about the wiring — the engine holds it at referee visibility, table talk about what the machinery did. Players don't see it.
 - **Journal** is the players' line about the same moment, written into the party's journal in order of discovery.
 
-Speaker and guidance ride along as on every narrative block: an attribution a renderer may credit the line to, and steering for a narrating front end that is never shown to players verbatim.
+Speaker and guidance are on every narrative block, as always: an attribution a renderer may credit the line to, and steering for a narrating front end that is never shown to players verbatim.
 
 ## Once-only, and what lives in saves
 
@@ -63,7 +63,7 @@ A trigger is **once-only by default**: it fires the first time its pattern match
 Two save-side notes worth knowing:
 
 - The fired mark is written *before* the consequences run. If a consequence is dropped in play — a spawn refused because an encounter is already open — a once-only trigger's one firing is still spent.
-- Renaming a trigger orphans any fired mark an existing save recorded under the old id: the renamed trigger will fire again for that save. Fresh sessions are unaffected.
+- Renaming a trigger orphans any fired mark recorded in an existing save under the old id: the renamed trigger will fire again for that save. Fresh sessions are unaffected.
 
 ## Placing triggers from the map
 
